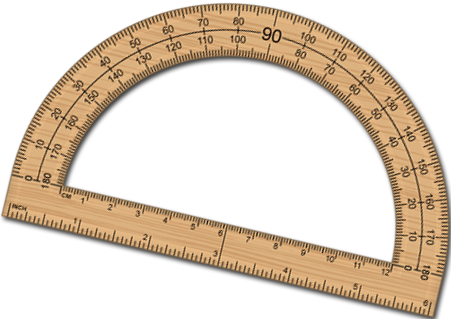
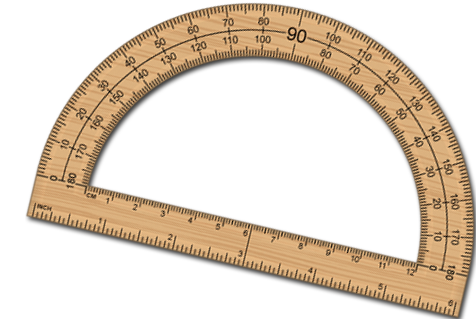
added new img sizes, javascript parralax

Changed region(s): [[0.0, 0.0, 0.9933, 0.9875]]

diff --git a/app/assets/javascripts/carousel.js b/app/assets/javascripts/carousel.js
@@ -74,6 +74,21 @@ $('.lightbox').live('click',function(){
     $('html,body').animate({scrollTop: 0}, 1200, 'easeInOutQuad');
     }
 
+        
+    var strength1 = 20;
+    var strength2 = 100;
+    var strength3 = 20;
+    var strength4 = 100;
+    $("html").mousemove(function(e){
+        var pageX = e.pageX - ($(window).width() / 2);
+        var pageY = e.pageY - ($(window).height() / 2);
+        var newvalueX = 1* pageX * -1;
+        var newvalueY = 1* pageY * -1;
+        $('#curve').css("background-position", (strength1 / $(window).width() * pageX * -1)+"px "+(strength1  / $(window).height() *  -1)+"px");
+        $('#pencil').css("background-position", (strength2 / $(window).width() * pageX * -1)+"px "+(strength2  / $(window).height() * -1)+"px");
+        $('#triangle').css("background-position", (strength3 / $(window).width() * pageX * -1)+"px "+(strength3  / $(window).height() *  -1)+"px");
+        $('#compass').css("background-position", (strength4 / $(window).width() * pageX * -1)+"px "+(strength4  / $(window).height() * -1)+"px");
+    });
 
 $(document).ready(function() {
 

diff --git a/app/assets/stylesheets/style.css b/app/assets/stylesheets/style.css
@@ -235,13 +235,18 @@ nav li:last-child a {
 }
 #pencil{
 	background: url(../assets/pencil.png) no-repeat;
-	margin: 45% 0 0 410px;
+	margin: 45% 0 0 510px;
 	width: 410px;
 	height: 352px;
 	z-index: -1;
 	position: absolute;
 }
-
+#container div{
+    position:absolute;
+    
+    width:200%;
+    height: 5000px;
+}
 
 
 
